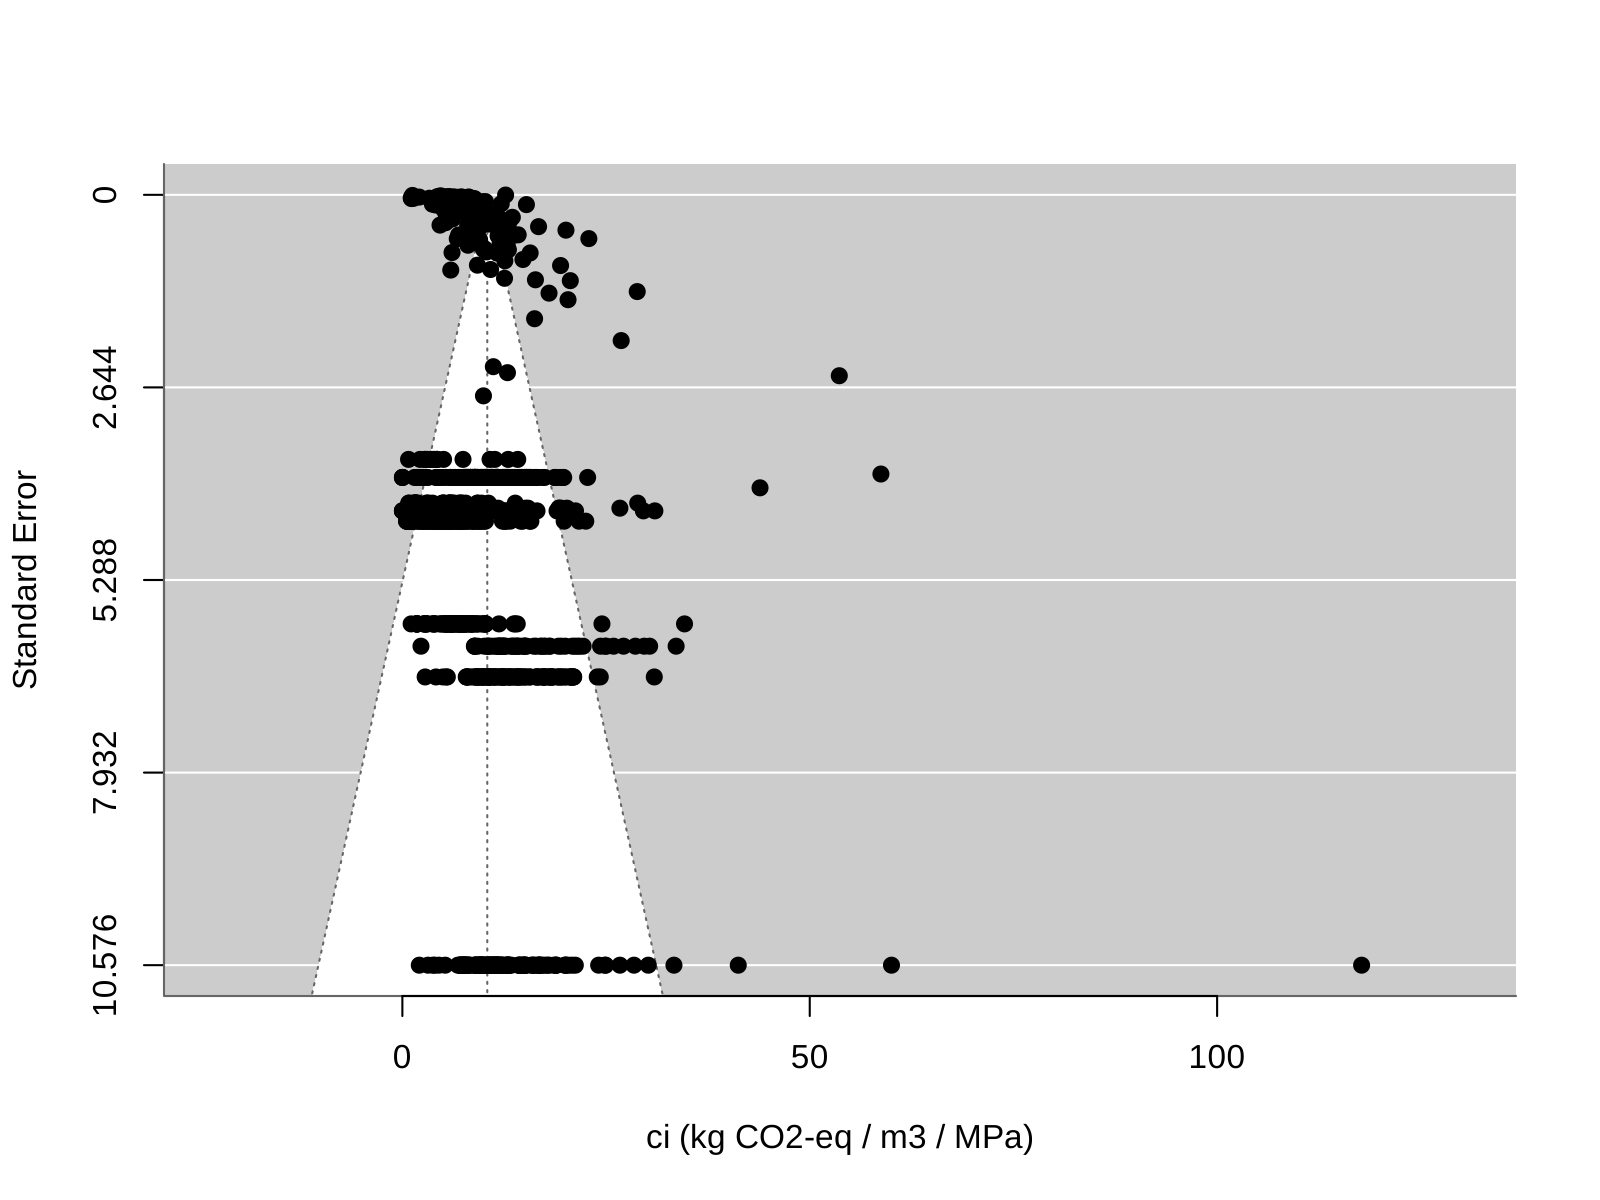
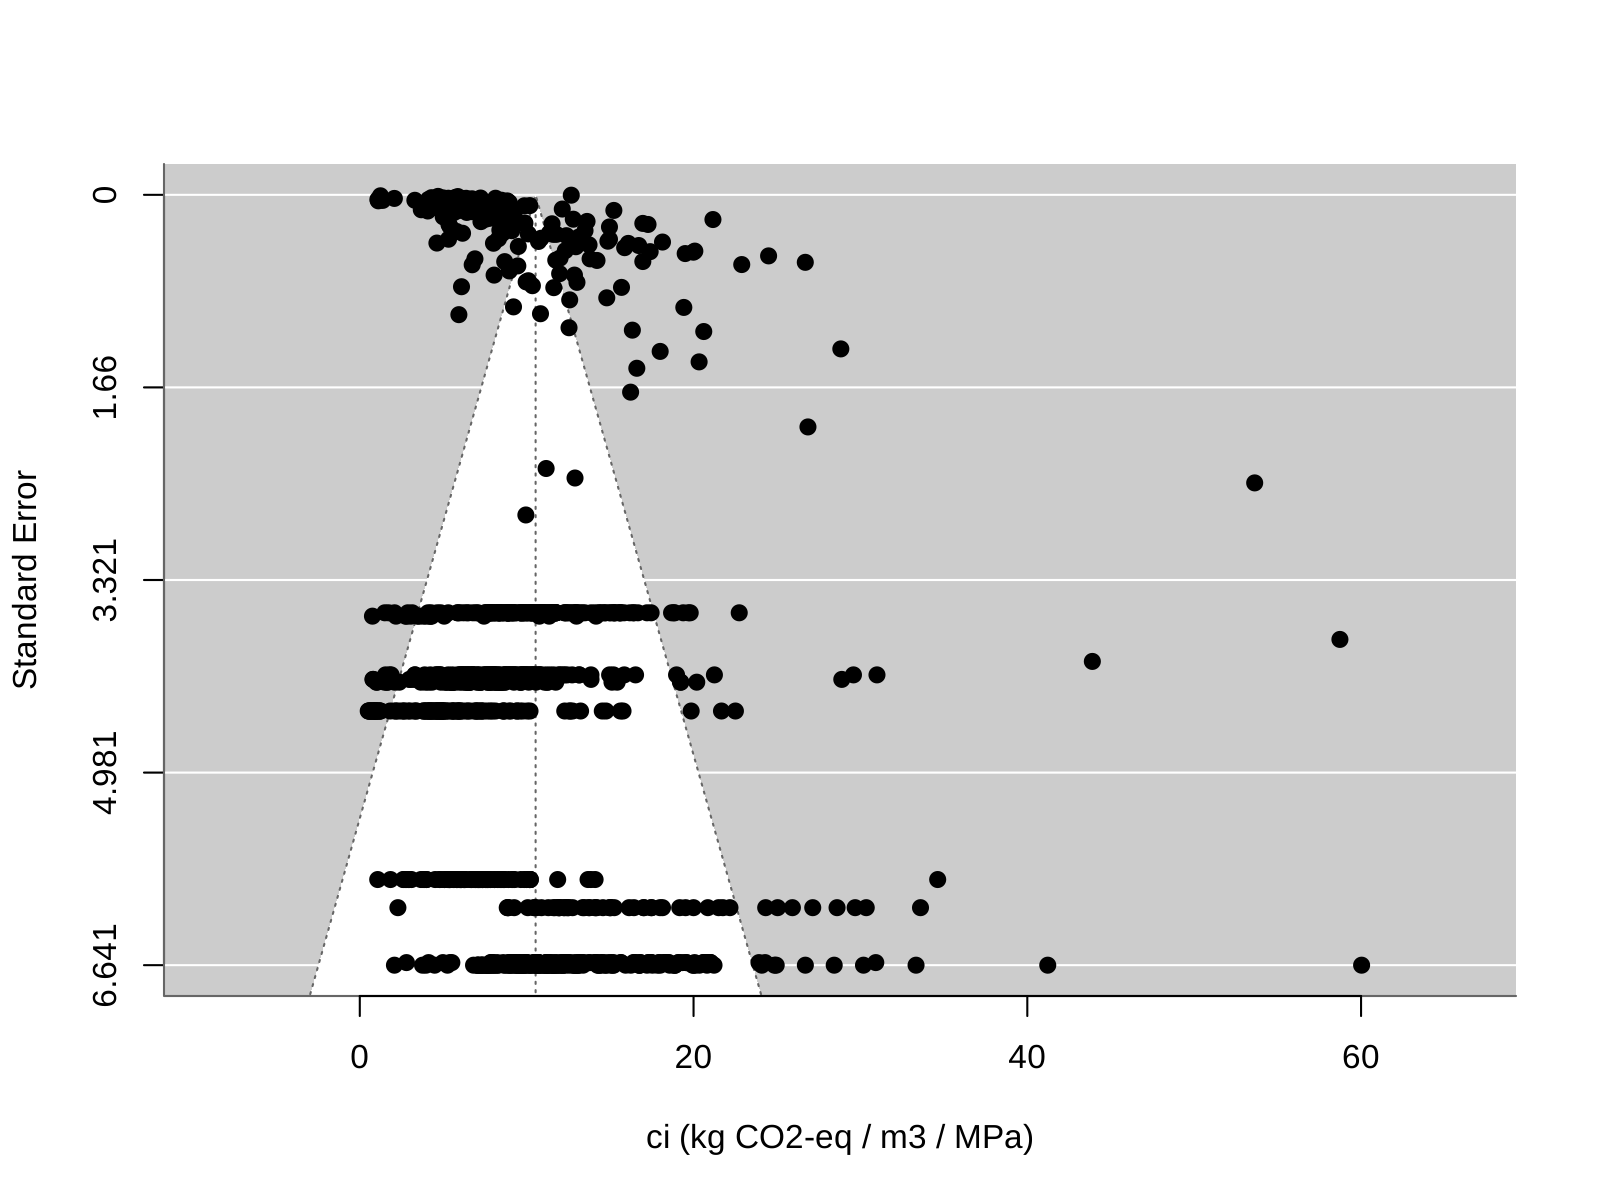
F57 (#1969): modelo v5 refeito com os 1.498 pares actuais (LOO=0, provisório até 04/12) (#358)
Principal 10,54 [9,87–11,20], k 1.113, 302 estudos; ci_t 0,195; famílias e
moderadores actualizados em metanalise/resultados/. Nenhum .xlsx tocado.

Claude-Session: https://claude.ai/code/session_01TdZTkLsmW8QBoKZHpAdtjD

diff --git a/metanalise/DECISOES_METANALISE.md b/metanalise/DECISOES_METANALISE.md
@@ -364,3 +364,4 @@ Script `metanalise/validar_a4.py` (só leitura) → `metanalise/transporte_a4_va
   - Implementação: `metanalise/exportar_a2.py` (só leitura; `dados_fck` col 62 `transporte_materiais` de cada par → `resultados/a2_por_par.csv`) + `metanalise/sensibilidade_a2.R` → `resultados/sensibilidade_a2.csv` e `sensibilidade_a2_moderador.csv`. Estrato principal, sem desconto (F9); vi e ajuste de `funcoes_modelo.R` (os mesmos do v5 e do painel). **[IMPLEMENTAÇÃO — por confirmar]** o filtro é **por par** (col 62 do próprio par; alguns estudos têm pares com valores diferentes, por isso os estudos somam mais de 398); as linhas «incluído ou parcial», «não incluído» e o moderador são extras.
   - **Resultado (2026-11-22, 1.498 pares do painel):** referência (principal, todos) μ **10,54** [9,87–11,20], k 1.113, 302 estudos — igual ao forest do painel (F54). **Só A2 incluído: μ 10,72 [9,78–11,66], k 648, 177 estudos.** Incluído ou parcial: 10,53 [9,71–11,36], k 787, 212. Não incluído: 10,22 [9,35–11,09], k 465, 128. Moderador A2 incluído vs resto: +0,47 [−0,85; +1,80], p = 0,48. **Leitura:** incluir ou não o transporte das matérias-primas no CO₂ publicado não muda o `ci` de forma detectável (diferença ≈ 4 %, dentro do IC) — coerente com o peso pequeno do transporte (A4 ≈ 3,5 % do CO₂ a 50 km, F49). Linha para a tabela de sensibilidades da dissertação.
 - **Corte de dados (Kiê, 22/11):** rodada final do modelo a **04/12/2026**, com o que as frentes #1812, #1811, #1805, #1808 e #1971 entregarem até **03/12**; depois os números congelam para Resultados/Discussão/Conclusão/Resumo (#1937–#1940). O que não estiver pronto aparece no texto como «em andamento» (limitações).
+- **Modelo v5 refeito com os pares actuais (2026-11-22, `LOO=0`; provisório até à rodada de 04/12):** principal μ **10,54** [9,87–11,20], PI95 0,32–20,75, k 1.113, 302 estudos (τ²₁ 23,2, τ²₂ 3,88, I² ≈ 100 %); + sensibilidade 10,19 [9,64–10,75] (k 1.449, 388); com desconto 10,38 (k 1.158, 311); só Portland 10,78 (k 930, 272); CV assumido 5/10/15 % → 10,96 / 10,75 / 10,49. `ci_t` (F33, todos os pares com vida útil pela hierarquia) 0,195 [0,181–0,209] kg CO₂-eq/(m³·MPa·ano), k 1.113. Famílias: opc 11,16 (k 401), scm 9,70 (302), reciclado 11,40 (131), geopolímero 5,16 (166), betão armado 15,53 (82), UHPC 7,50 (14), ligantes 11,67 (17); QM família p ≈ 10⁻²¹; não-Portland −4,90 (p ≈ 10⁻¹³); idade do ensaio sem efeito (p = 0,45 / 0,84). Egger multinível: declive 0,80 (p ≈ 2·10⁻⁹). `resultados/` (sem `leave_one_study_out.csv`, que continua o de 16/10 — corre na rodada final). Substituem os números dos parágrafos «DESATUALIZADO» do método da dissertação (101 observações / 174 estudos, maio/2026).
